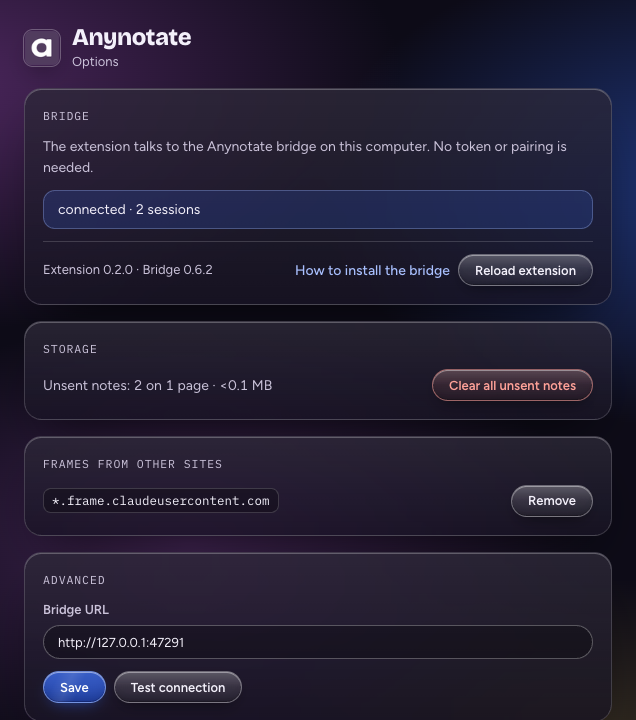
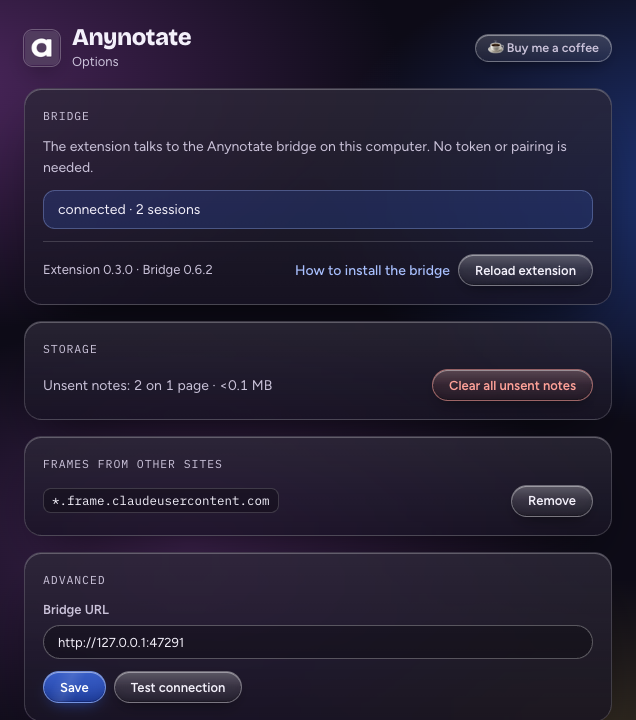
Add a Buy me a coffee link to the site, README and GitHub sponsor button
Footer link on every page, one line on the support page and README, and FUNDING.yml.
Also brings the site test up to date with the Chrome Web Store link and stylesheet v=7.

Changed region(s): [[0.7469, 0.0306, 0.956, 0.0917]]

diff --git a/test/site.test.ts b/test/site.test.ts
@@ -4,7 +4,7 @@ import { dirname, join, relative, resolve } from "node:path";
 
 const SITE = resolve(import.meta.dir, "..", "site");
 const PAGES = ["index.html", "guide/index.html", "privacy/index.html", "support/index.html"];
-const ALLOWED_HOSTS = new Set(["github.com", "genexk.github.io"]);
+const ALLOWED_HOSTS = new Set(["github.com", "genexk.github.io", "chromewebstore.google.com", "buymeacoffee.com"]);
 
 function refs(html: string): string[] {
   const attrs = [...html.matchAll(/\s(?:href|src)="([^"]*)"/g)].map((m) => m[1]!);
@@ -50,7 +50,7 @@ describe.each(PAGES)("site/%s", (page) => {
     expect(html()).not.toMatch(/\s(?:src|srcset)="https?:|<link[^>]+href="https?:|url\(\s*["']?https?:/);
   });
 
-  test("links only to github.com and genexk.github.io", () => {
+  test("links only to github.com, genexk.github.io, the Chrome Web Store and Buy me a coffee", () => {
     for (const ref of refs(html()).filter((r) => /^https?:/.test(r))) {
       expect(ALLOWED_HOSTS.has(new URL(ref).hostname), ref).toBe(true);
     }
@@ -70,8 +70,13 @@ describe.each(PAGES)("site/%s", (page) => {
     for (const nav of navs) expect(nav).toMatch(/<a href="(?:\.\.\/)?(?:guide\/|\.\/)"[^>]*>Guide<\/a>/);
   });
 
+  test("links to Buy me a coffee from the footer, in a new tab", () => {
+    const footer = /<footer[\s\S]*?<\/footer>/.exec(html())![0];
+    expect(footer).toContain('<a href="https://buymeacoffee.com/genexk" target="_blank" rel="noopener noreferrer">☕ Buy me a coffee</a>');
+  });
+
   test("uses the current stylesheet version", () => {
-    expect(html()).toMatch(/href="(?:\.\.\/)?style\.css\?v=6"/);
+    expect(html()).toMatch(/href="(?:\.\.\/)?style\.css\?v=7"/);
   });
 
   test("holds no personal paths or addresses", () => {

diff --git a/site/guide/index.html b/site/guide/index.html
@@ -322,7 +322,7 @@
         <li><strong>Advanced</strong> is for a bridge on a different port.</li>
       </ul>
       <figure class="shot narrow">
-        <a class="zoom" href="../img/guide/9-options.png"><img src="../img/guide/9-options.png" width="636" height="720" loading="lazy" alt="The Anynotate options page: Bridge says connected · 2 sessions with Extension 0.2.0 and Bridge 0.6.2; Storage says Unsent notes: 2 on 1 page; Frames from other sites lists *.frame.claudeusercontent.com with a Remove button; Advanced has the bridge URL."></a>
+        <a class="zoom" href="../img/guide/9-options.png"><img src="../img/guide/9-options.png" width="636" height="720" loading="lazy" alt="The Anynotate options page, with a Buy me a coffee link in the header: Bridge says connected · 2 sessions with Extension 0.3.0 and Bridge 0.6.2; Storage says Unsent notes: 2 on 1 page; Frames from other sites lists *.frame.claudeusercontent.com with a Remove button; Advanced has the bridge URL."></a>
         <figcaption>The options page.</figcaption>
       </figure>
       <p>Sent notes are kept in <code>~/.anynotate/inbox/</code> and deleted 30 days after delivery. Change that with <code>anynotate retention 7</code>, or <code>anynotate retention off</code>; <code>anynotate prune</code> deletes everything past the period now.</p>
@@ -360,6 +360,7 @@
       <a href="../support/">Support</a>
       <a href="../privacy/">Privacy</a>
       <a href="https://github.com/genexk/anynotate/blob/main/LICENSE">License</a>
+      <a href="https://buymeacoffee.com/genexk" target="_blank" rel="noopener noreferrer">☕ Buy me a coffee</a>
     </nav>
     <p>Open source: AGPL-3.0, with the protocol package under Apache-2.0.</p>
   </div>

diff --git a/site/support/index.html b/site/support/index.html
@@ -119,6 +119,7 @@ anynotate install</code></pre>
         <h2 id="stuck-title">Still stuck?</h2>
         <p>Open an issue on <a href="https://github.com/genexk/anynotate/issues">GitHub</a> with the output of <code>anynotate doctor</code> and your operating system. Check the output for anything you would rather not share before posting.</p>
         <p>Found a security problem? Please don't open a public issue; report it privately as described in <a href="https://github.com/genexk/anynotate/blob/main/SECURITY.md">SECURITY.md</a>.</p>
+        <p>Anynotate is free. If it saves you time, you can <a href="https://buymeacoffee.com/genexk" target="_blank" rel="noopener noreferrer">buy me a coffee</a>.</p>
       </section>
     </div>
   </div>
@@ -133,6 +134,7 @@ anynotate install</code></pre>
       <a href="./">Support</a>
       <a href="../privacy/">Privacy</a>
       <a href="https://github.com/genexk/anynotate/blob/main/LICENSE">License</a>
+      <a href="https://buymeacoffee.com/genexk" target="_blank" rel="noopener noreferrer">☕ Buy me a coffee</a>
     </nav>
     <p>Open source: AGPL-3.0, with the protocol package under Apache-2.0.</p>
   </div>

diff --git a/site/index.html b/site/index.html
@@ -322,6 +322,7 @@
       <a href="support/">Support</a>
       <a href="privacy/">Privacy</a>
       <a href="https://github.com/genexk/anynotate/blob/main/LICENSE">License</a>
+      <a href="https://buymeacoffee.com/genexk" target="_blank" rel="noopener noreferrer">☕ Buy me a coffee</a>
     </nav>
     <p>Open source: AGPL-3.0, with the protocol package under Apache-2.0.</p>
   </div>

diff --git a/site/privacy/index.html b/site/privacy/index.html
@@ -137,6 +137,7 @@
       <a href="../support/">Support</a>
       <a href="./">Privacy</a>
       <a href="https://github.com/genexk/anynotate/blob/main/LICENSE">License</a>
+      <a href="https://buymeacoffee.com/genexk" target="_blank" rel="noopener noreferrer">☕ Buy me a coffee</a>
     </nav>
     <p>Open source: AGPL-3.0, with the protocol package under Apache-2.0.</p>
   </div>

diff --git a/README.md b/README.md
@@ -4,6 +4,8 @@ Annotate any web page and deliver the notes to a running AI CLI session: Claude 
 
 Website: [genexk.github.io/anynotate](https://genexk.github.io/anynotate/) ([support](https://genexk.github.io/anynotate/support/), [privacy policy](https://genexk.github.io/anynotate/privacy/)).
 
+Anynotate is free. If it saves you time, you can [buy me a coffee](https://buymeacoffee.com/genexk).
+
 This repository holds the agent side: the local bridge, the `anynotate` CLI, the agent hooks and installer, and the [`@anynotate/protocol`](./packages/protocol) package. Get the Anynotate extension from the [Chrome Web Store](https://chromewebstore.google.com/detail/lefcmfmbmjmgfkgbbcodolcecbnfjgpp). You can also send bundles by hand (see [Sending a bundle by hand](#sending-a-bundle-by-hand)) or build your own client on [`@anynotate/protocol`](./packages/protocol).
 
 ## Features
